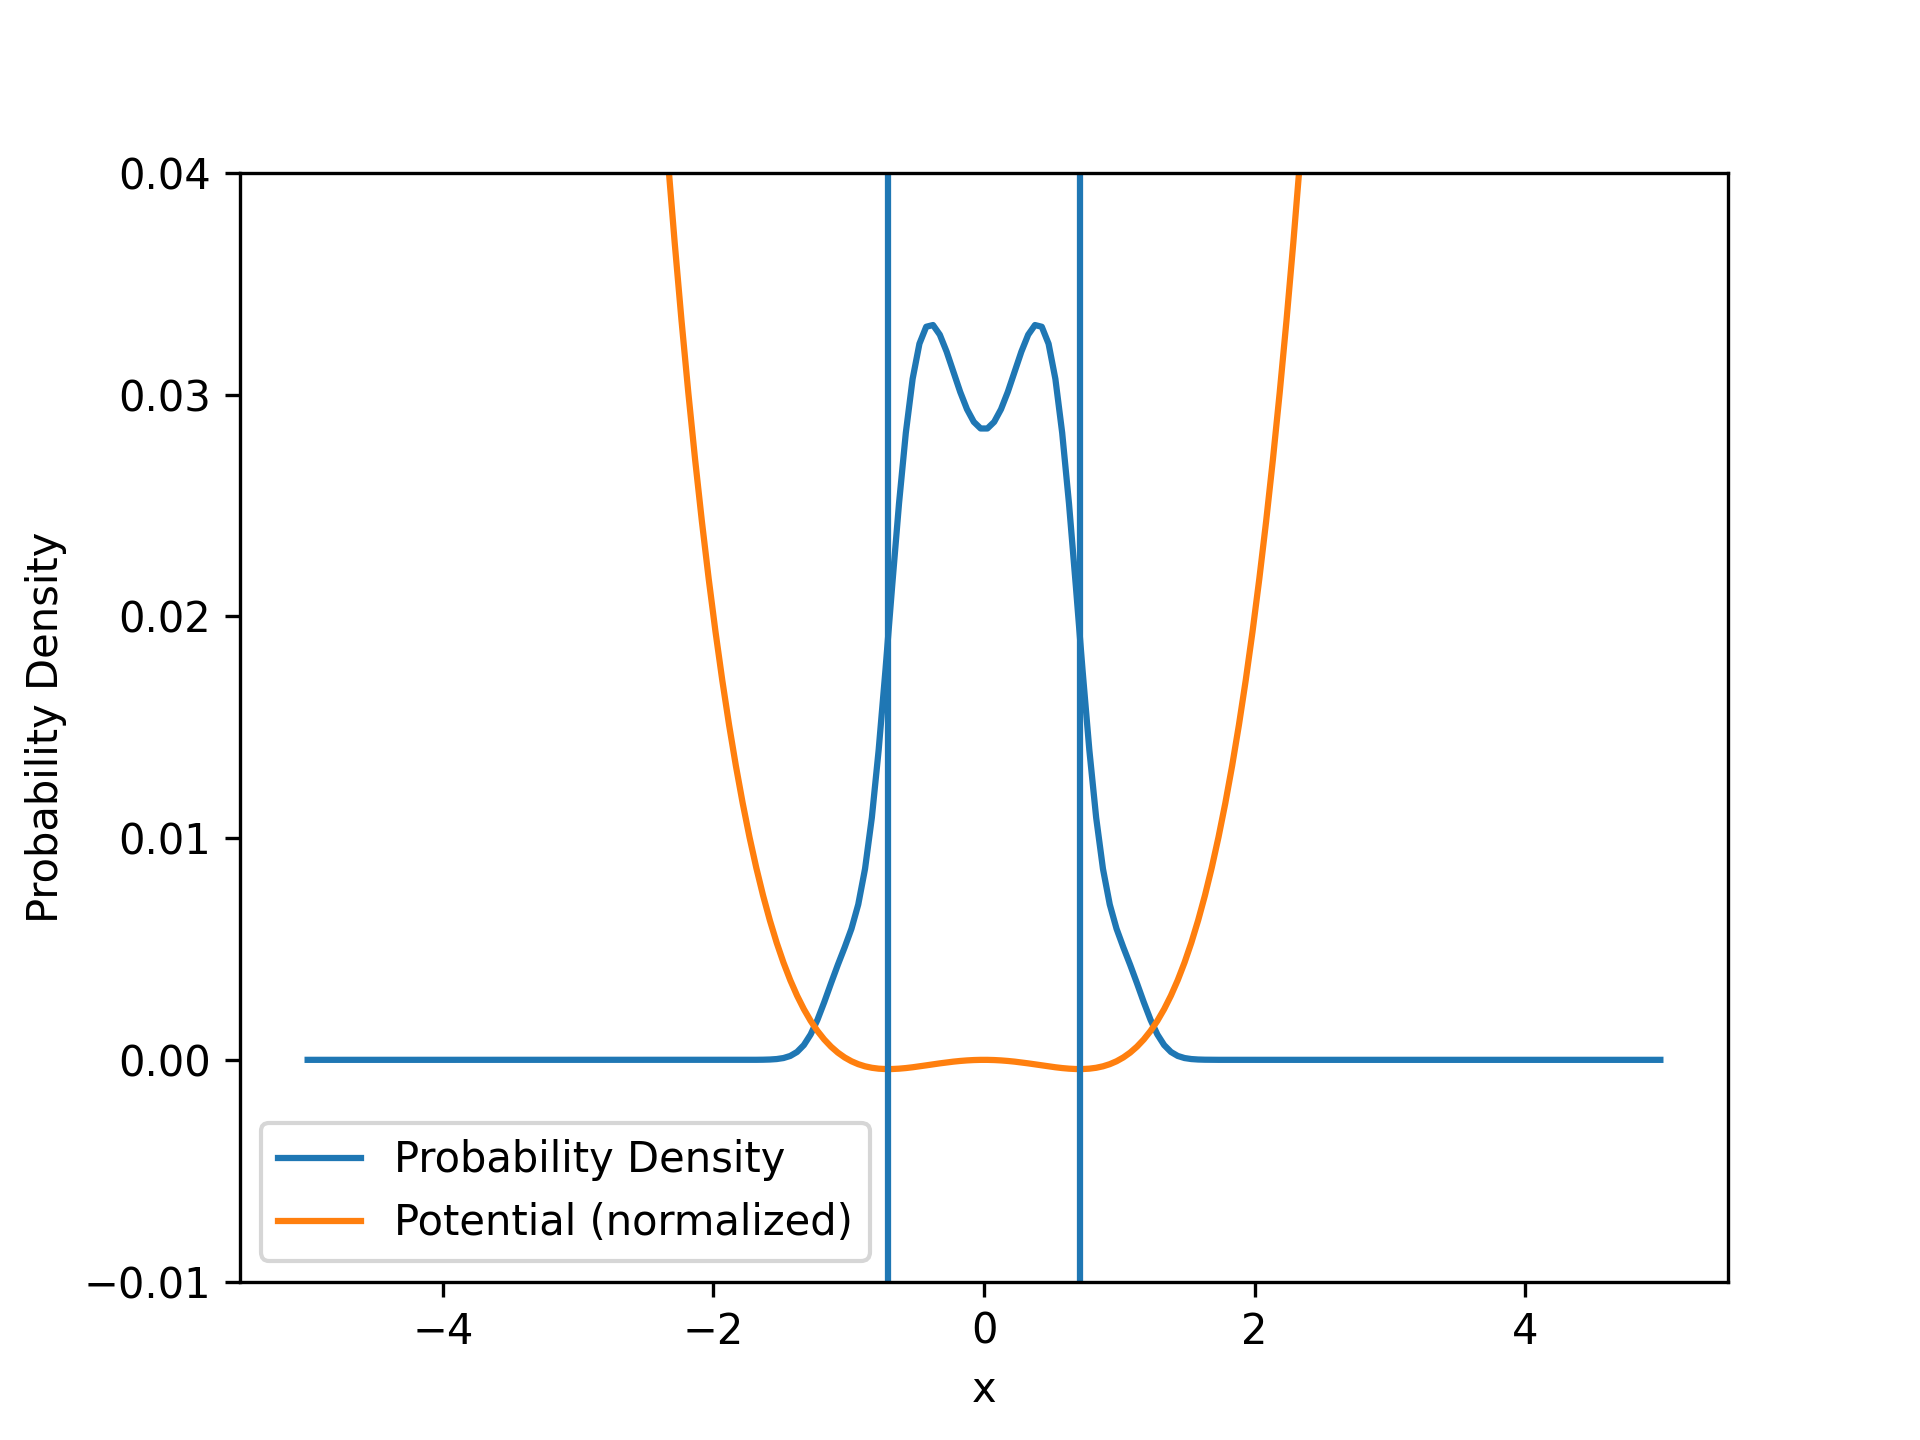
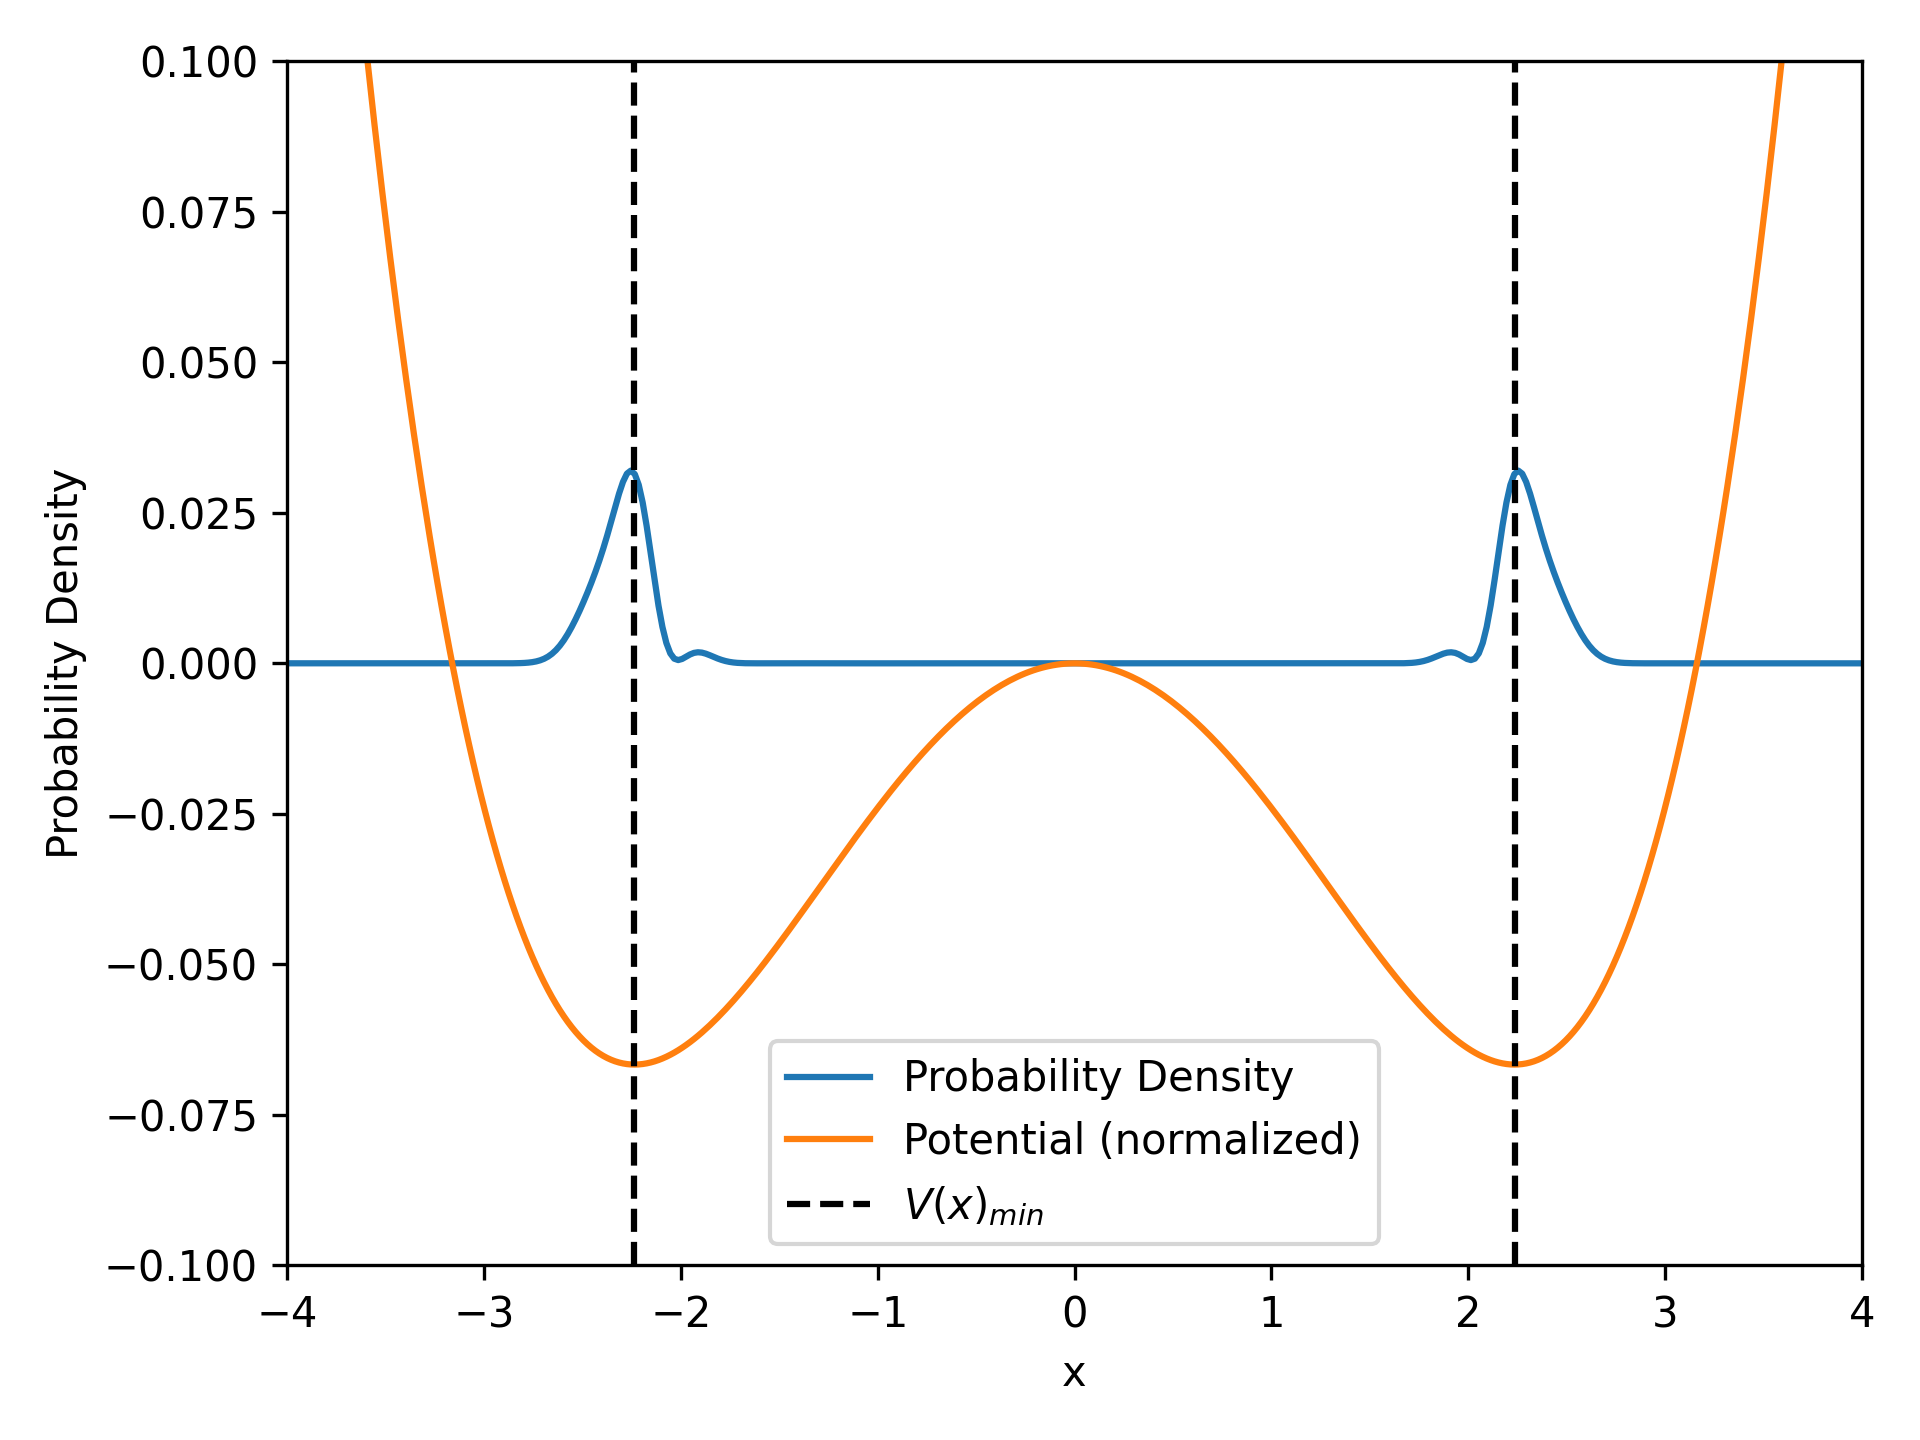
Update Readme

diff --git a/ex1_OneDimQuantAnnealing.py b/ex1_OneDimQuantAnnealing.py
@@ -1,10 +1,9 @@
 import numpy as np
 from scipy.sparse import diags
-from scipy.linalg import expm
-import matplotlib.pyplot as plt
+from scipy.sparse.linalg import eigsh, expm_multiply
 
 # Constants and parameters
-N = 200  # Number of spatial points
+N = 500  # Number of spatial points
 L = 10.0  # Length of the spatial domain
 dx = L / N  # Spatial step size
 T = 10.0  # Total annealing time
@@ -17,7 +16,7 @@ x = np.linspace(-L / 2, L / 2, N)
 
 # Double-well potential
 def double_well_potential(x):
-    return x**4 - x**2
+    return x**4 - 10 * x**2
 
 
 V = double_well_potential(x)
@@ -26,9 +25,9 @@ V = double_well_potential(x)
 H_P = diags([V], [0]).toarray()
 H_D = -0.5 * diags([1, -2, 1], [-1, 0, 1], shape=(N, N)).toarray() / dx**2
 
-# Initial wave function (ground state of H_D)
-psi = np.exp(-(x**2))
-psi /= np.linalg.norm(psi)
+# Get the ground state of the driver Hamiltonian
+_, psi0 = eigsh(H_D, k=1, which="SA")
+psi = psi0.flatten()
 
 
 # Schedule function
@@ -36,23 +35,18 @@ def schedule(t):
     return t / T
 
 
-# Time evolution operator (Crank-Nicolson method)
-def time_evolution_operator(H, dt):
-    return expm(-1j * H * dt)
-
-
-# Time evolution
+# Time evolution using expm_multiply for better stability
 for t in range(num_steps):
     s = schedule(t * dt)
     H_t = (1 - s) * H_D + s * H_P
-    U = time_evolution_operator(H_t, dt)
-    psi = U @ psi
+    psi = expm_multiply(-1j * H_t * dt, psi)
     psi /= np.linalg.norm(psi)  # Normalize the wave function
 
 # Calculate the probability density
 prob_density = np.abs(psi) ** 2
 
 # Plotting
+import matplotlib.pyplot as plt
 
 plt.plot(x, prob_density, label="Probability Density")
 plt.plot(
@@ -60,10 +54,13 @@ plt.plot(
     double_well_potential(x) / max(double_well_potential(x)),
     label="Potential (normalized)",
 )
-plt.vlines(-1 / np.sqrt(2), -0.01, 0.04)
-plt.vlines(1 / np.sqrt(2), -0.01, 0.04)
+plt.vlines(np.sqrt(5), -0.1, 0.1, "black", "--", r"$V(x)_{min}$")
+plt.vlines(-np.sqrt(5), -0.1, 0.1, "black", "--")
+
+plt.xlim(-4, 4)
+plt.ylim(-0.1, 0.1)
 plt.xlabel("x")
 plt.ylabel("Probability Density")
-plt.ylim(-0.01, 0.04)
 plt.legend()
+plt.tight_layout()
 plt.savefig("./plots/onedim.png", format="png", dpi=300)

diff --git a/ReadMe.md b/ReadMe.md
@@ -3,7 +3,7 @@
 Recently, I came across quantum annealing, which is a super smart way in utilizing principles of quantum mechanics to solve time intensive analytical problems in a shorter time frame. The script
 *ex1_OneDimQuantAnnealing.py*
 describes a double well potential with the form 
-$$V(x)=x^4-x^2$$
+$$V(x)=x^4-10x^2$$
 for which we try to find the ground state. We already know the ground states and only want to demonstrate a possible process.
 
 ## Steps to Implement Quantum Annealing
@@ -34,10 +34,14 @@ $$H_P = V(x)$$
 2. Time-dependent Hamiltonian
 
 $$H(t)=[1-s(t)]H_D +s(t)H_P$$
+
 where $s(t)$ is a schedule function that changes from $0$ to $1$ over time.
 
 3. Solve the TDSE
 
 We'll use the Crank-Nicolson method to solve the TDSE numerically.
 
+# Result
+
+The double-well-potential given by $V(x)$ can be seen in orange. the minima can easily calculated to be $x_1=\pm \sqrt{5}$. The probability density $\mid \psi \mid^2$ of the time dependent wave function $\psi(t, x)$ after $1000$ iterations becomes the blue line with the maxima at the minima of the potential. In this case the probability density approaches the ground states of the wave function given the potential $V(x)$.
 ![Missing plot](./plots/onedim.png)
